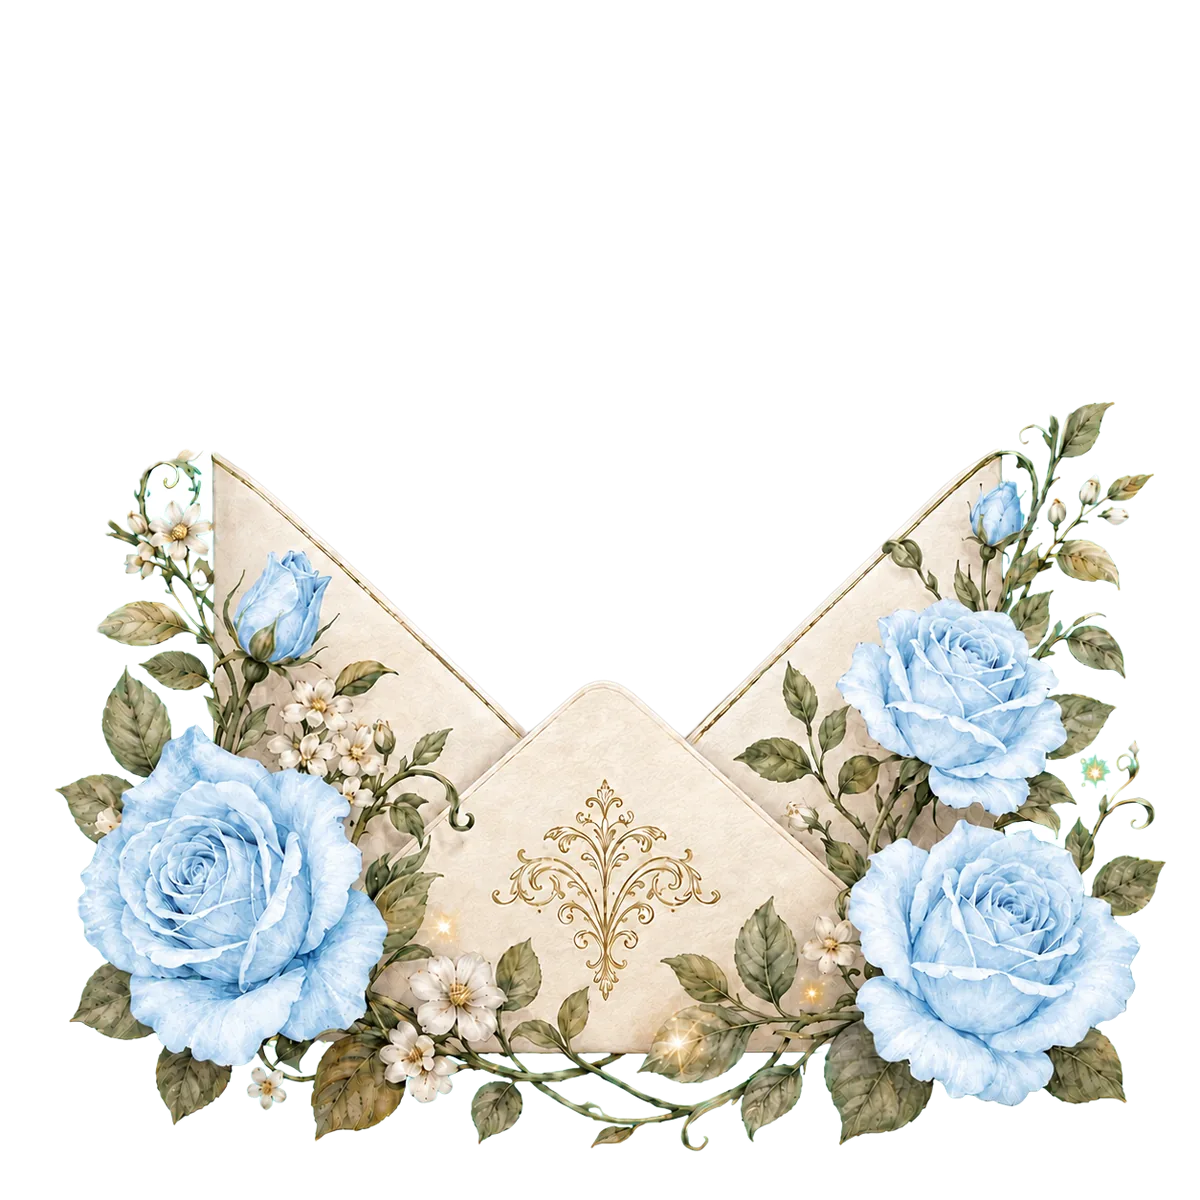
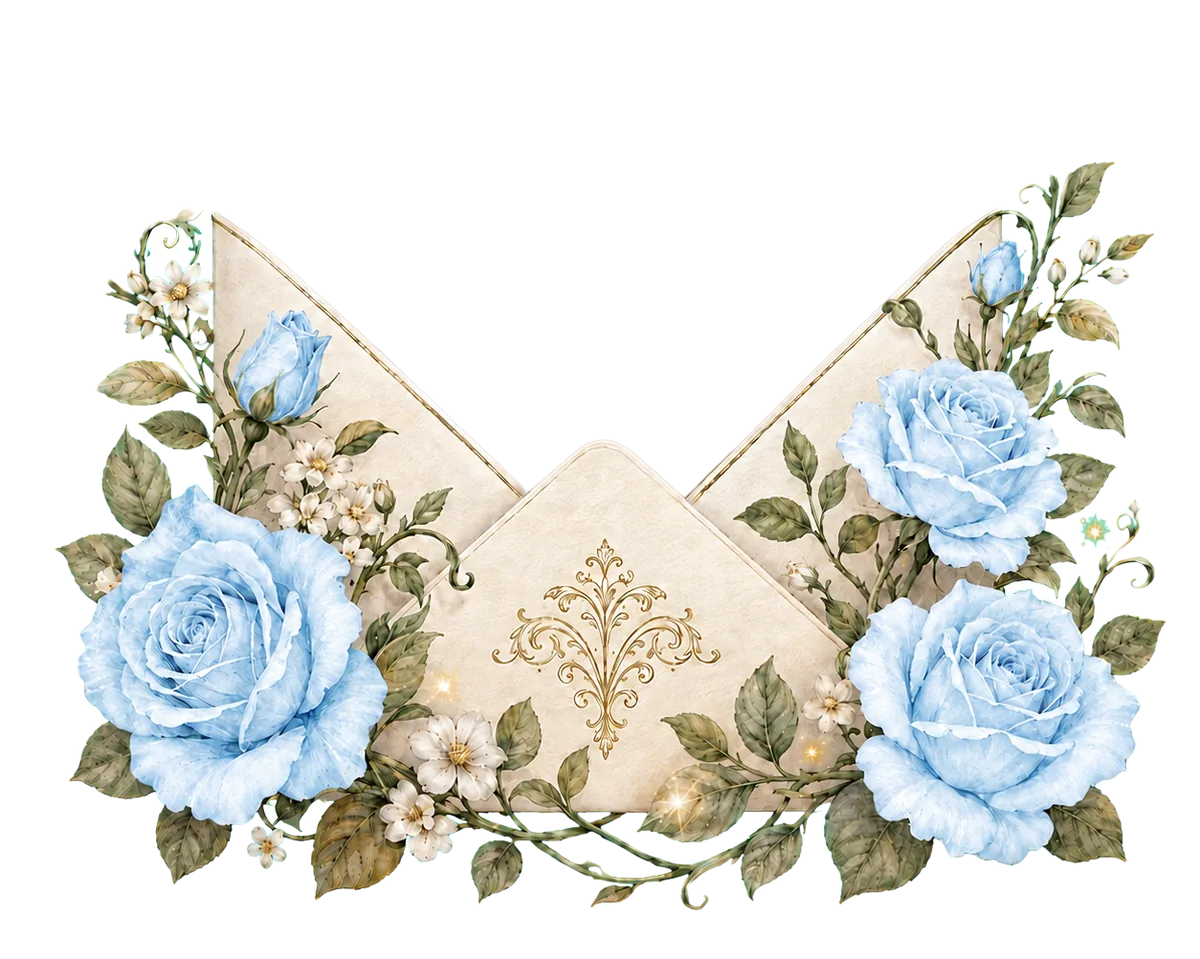
fix(blue-butterfly): bolsillo recortado a 5:4 (1254x1003, anclado abajo) y retroceso sin scale-0.92 - el sobre abierto ya no se encoge (auditoria de la entrada)

diff --git a/src/components/templates/BlueButterflyTemplate.tsx b/src/components/templates/BlueButterflyTemplate.tsx
@@ -487,7 +487,7 @@ export default function BlueButterflyTemplate({
                 desenfoca 1px y baja a 0.9 de opacidad (profundidad) */}
             <div
               className={`absolute inset-0 z-20 pointer-events-none transition-transform duration-[900ms] [transition-timing-function:cubic-bezier(0.22,1,0.36,1)] ${
-                isLetterOut ? "translate-y-2.5 scale-[0.92]" : ""
+                isLetterOut ? "translate-y-2.5" : ""
               }`}
             >
               <div
